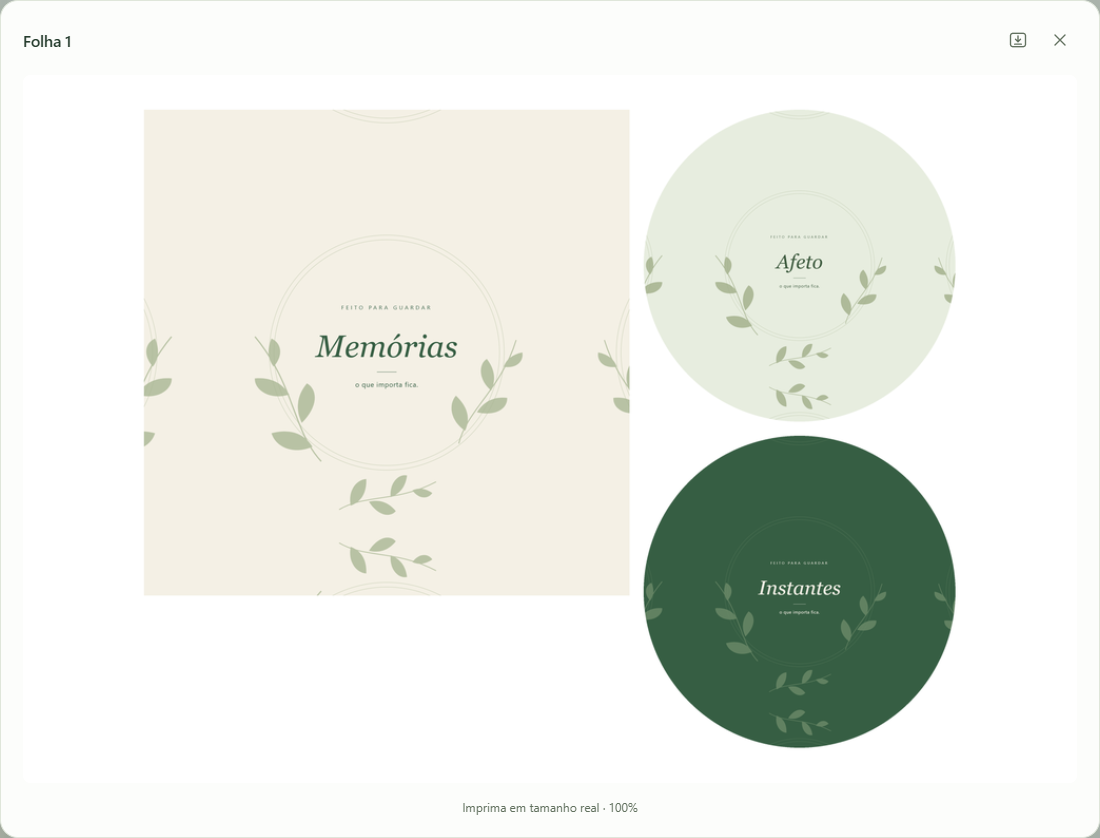
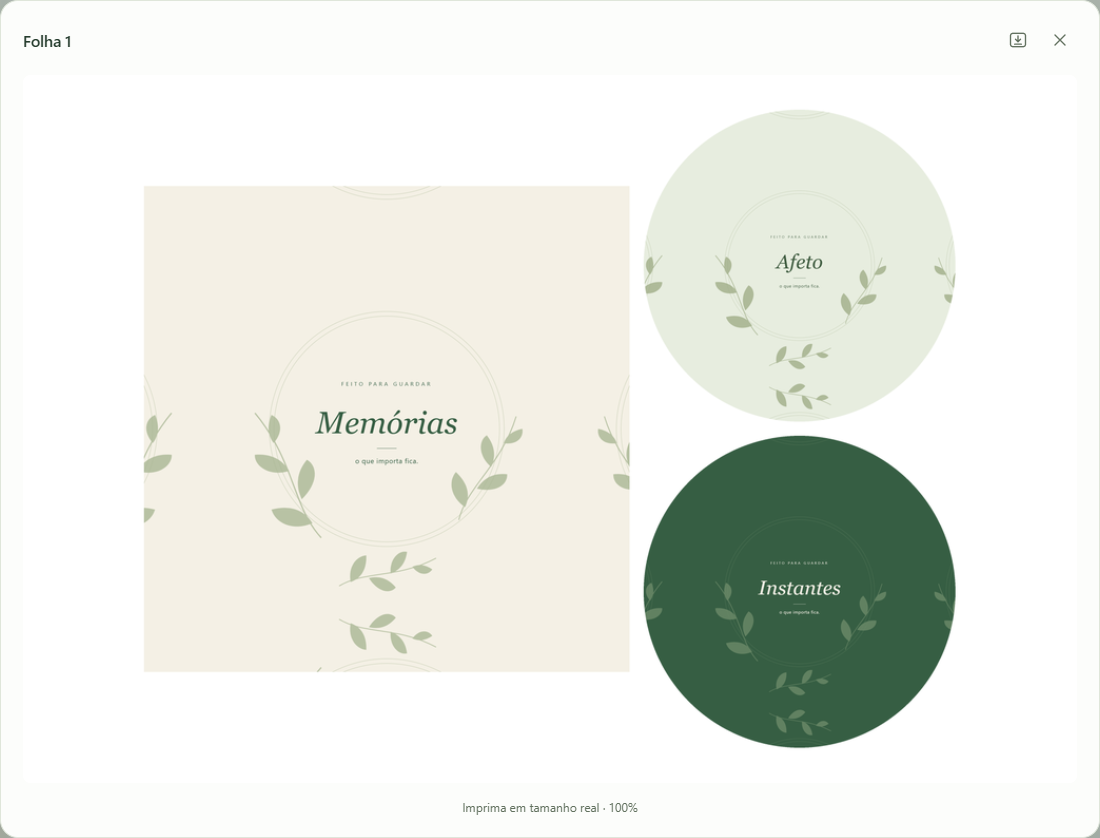
fix: centralizar verticalmente as colunas de bottons (#11)

diff --git a/apps/bottons-editor/layout.py b/apps/bottons-editor/layout.py
@@ -1,8 +1,8 @@
 """Deterministic sheet planning; all bounds include the complete cut/bleed.
 
 Homogeneous batches retain the approved legacy layout. Mixed batches use
-conservative square bounds for circles and a 2 mm gap, then center the complete
-group on each sheet while keeping at least 2 mm outer clearance.
+conservative square bounds for circles and a 2 mm gap. Independent columns
+are centered vertically, and the full group is centered horizontally.
 """
 from engine import DPI, PAGE, page_positions, template_info
 
@@ -57,16 +57,28 @@ def plan_pages(items, default='square'):
         if len({keys[i] for i in indices})==1:
             points=page_positions(len(indices),keys[indices[0]])
         else:
-            # Translate the complete packed group; never resize tiles or change
-            # their relative spacing. Exclude the packer's trailing gap from
-            # the bounds so the actual cut areas have balanced outer margins.
+            # Columns separated horizontally by the full safety gap can move
+            # vertically without introducing collisions. Keep stacked pieces
+            # together; center a square next to the complete circular stack.
+            columns=[]
+            for i in sorted(indices,key=lambda i:(positions[i][0],i)):
+                x=positions[i][0];right=x+specs[i]['cut_px']
+                if not columns or x>=columns[-1]['right']+GAP:
+                    columns.append(dict(indices=[i],right=right))
+                else:
+                    columns[-1]['indices'].append(i)
+                    columns[-1]['right']=max(columns[-1]['right'],right)
+            centered={}
+            for column in columns:
+                top=min(positions[i][1] for i in column['indices'])
+                bottom=max(positions[i][1]+specs[i]['cut_px'] for i in column['indices'])
+                dy=(PAGE[1]-(bottom-top))//2-top
+                for i in column['indices']:
+                    centered[i]=(positions[i][0],positions[i][1]+dy)
             left=min(positions[i][0] for i in indices)
-            top=min(positions[i][1] for i in indices)
             right=max(positions[i][0]+specs[i]['cut_px'] for i in indices)
-            bottom=max(positions[i][1]+specs[i]['cut_px'] for i in indices)
             dx=(PAGE[0]-(right-left))//2-left
-            dy=(PAGE[1]-(bottom-top))//2-top
-            points=[(positions[i][0]+dx,positions[i][1]+dy) for i in indices]
+            points=[(centered[i][0]+dx,centered[i][1]) for i in indices]
         result.append(dict(indices=indices,positions=points))
     return result
 

diff --git a/apps/bottons-editor/tests/test_layout.py b/apps/bottons-editor/tests/test_layout.py
@@ -22,6 +22,9 @@ class LayoutTests(unittest.TestCase):
             self.assertLessEqual(abs(top-bottom),1)
             if len({keys[index] for index in page['indices']})>1:
                 self.assertGreaterEqual(min(left,right,top,bottom),MARGIN)
+                for i,(x,y,size) in enumerate(boxes):
+                    for xx,yy,ss in boxes[i+1:]:
+                        self.assertTrue(x+size+GAP<=xx or xx+ss+GAP<=x or y+size+GAP<=yy or yy+ss+GAP<=y)
             # A page preview/download, planned from its own items, has identical geometry.
             subset=plan_pages([items[i] for i in page['indices']])
             self.assertEqual(len(subset),1);self.assertEqual(subset[0]['positions'],page['positions'])
@@ -39,6 +42,11 @@ class LayoutTests(unittest.TestCase):
         self.assertEqual([template_info(k)['cut_px'] for k in keys],[827,531,531])
         x,y=pages[0]['positions'][0]
         for xx,yy in pages[0]['positions'][1:]:self.assertGreaterEqual(xx-(x+827),GAP)
+        self.assertLessEqual(abs(2*y+827-PAGE[1]),1)
+        (_,upper),(_,lower)=pages[0]['positions'][1:]
+        self.assertEqual(lower-upper-531,GAP)
+        self.assertLessEqual(abs(upper+lower+531-PAGE[1]),1)
+        self.assertGreater(y,upper)
 
     def test_exhaustive_small_mixes_random_batches_and_determinism(self):
         for count in range(1,6):
@@ -54,7 +62,8 @@ class LayoutTests(unittest.TestCase):
         for page in pages:
             first,second=page['indices'];(x,y),(xx,yy)=page['positions']
             self.assertEqual(xx-x-template_info(keys[first])['cut_px'],GAP)
-            self.assertEqual(y,yy)
+            self.assertLessEqual(abs(2*y+template_info(keys[first])['cut_px']-PAGE[1]),1)
+            self.assertLessEqual(abs(2*yy+template_info(keys[second])['cut_px']-PAGE[1]),1)
 
     def test_rendered_mixed_sheet_has_symmetric_margins_and_original_tile_sizes(self):
         from PIL import Image,ImageChops

diff --git a/apps/bottons-editor/version.py b/apps/bottons-editor/version.py
@@ -1,5 +1,5 @@
 """Single version source for the application, installer and releases."""
-VERSION = "1.2.2"
+VERSION = "1.2.3"
 REPOSITORY = "redlab-coder/redlab-editor"
 PORTABLE_NAMESPACE = 'BottonsEditor-Portable'
 INSTALLED_MUTEX = 'Local\\BottonsEditor.Installed.Running'

diff --git a/README.md b/README.md
@@ -2,15 +2,15 @@
 
 Três ferramentas para preparar imagens para impressão. Instale a família completa em um único download ou escolha seu editor.
 
-<p align="center"><a href="https://github.com/redlab-coder/redlab-editor/releases/download/redlab-v1.0.1/RedlabEditor-Setup-1.0.1.exe"><img src="docs/images/download-complete.svg" alt="Baixar pacote completo RedLab Editor para Windows" width="292" height="56"></a><br><sub>Windows 10 e 11 · 64 bits · Sem administrador · Instalação offline</sub></p>
+<p align="center"><a href="https://github.com/redlab-coder/redlab-editor/releases/download/redlab-v1.0.2/RedlabEditor-Setup-1.0.2.exe"><img src="docs/images/download-complete.svg" alt="Baixar pacote completo RedLab Editor para Windows" width="292" height="56"></a><br><sub>Windows 10 e 11 · 64 bits · Sem administrador · Instalação offline</sub></p>
 
-O pacote inclui **Bottons 1.2.2**, **Polaroid 1.2.1** e **Medidas 1.1.1**. Os três vêm selecionados; você pode escolher apenas os que precisa. As ferramentas ficam na pasta RedLab Editor do menu Iniciar e continuam recebendo atualizações individuais. [Instalação do pacote](docs/package.md).
+O pacote inclui **Bottons 1.2.3**, **Polaroid 1.2.1** e **Medidas 1.1.1**. Os três vêm selecionados; você pode escolher apenas os que precisa. As ferramentas ficam na pasta RedLab Editor do menu Iniciar e continuam recebendo atualizações individuais. [Instalação do pacote](docs/package.md).
 
 ### Downloads individuais
 
 | Ferramenta | Para que serve | Windows 10 e 11 · 64 bits |
 | --- | --- | --- |
-| **Bottons Editor** | Modelos por imagem e montagem de folhas com bottons. | [Instalador](https://github.com/redlab-coder/redlab-editor/releases/download/bottons-v1.2.2/BottonsEditor-Setup-1.2.2.exe) · [Portátil](https://github.com/redlab-coder/redlab-editor/releases/download/bottons-v1.2.2/BottonsEditor-Portable.exe) |
+| **Bottons Editor** | Modelos por imagem e montagem de folhas com bottons. | [Instalador](https://github.com/redlab-coder/redlab-editor/releases/download/bottons-v1.2.3/BottonsEditor-Setup-1.2.3.exe) · [Portátil](https://github.com/redlab-coder/redlab-editor/releases/download/bottons-v1.2.3/BottonsEditor-Portable.exe) |
 | **Polaroid Editor** | Enquadramento, conferência e montagem de polaroids. | [Instalador](https://github.com/redlab-coder/redlab-editor/releases/download/polaroid-v1.2.1/PolaroidEditor-Setup-1.2.1.exe) · [Portátil](https://github.com/redlab-coder/redlab-editor/releases/download/polaroid-v1.2.1/PolaroidEditor-Portable.exe) |
 | **Medidas Editor** | Fotos em medidas personalizadas na folha comercial compatível. | [Instalador](https://github.com/redlab-coder/redlab-editor/releases/download/medidas-v1.1.1/MedidasEditor-Setup-1.1.1.exe) · [Portátil](https://github.com/redlab-coder/redlab-editor/releases/download/medidas-v1.1.1/MedidasEditor-Portable.exe) |
 

diff --git a/docs/maintenance.md b/docs/maintenance.md
@@ -2,7 +2,7 @@
 
 | Aplicativo | Pasta | Tag | Canal |
 | --- | --- | --- | --- |
-| Bottons Editor | `apps/bottons-editor` | `bottons-v1.2.2` | `updates/bottons-editor.json` |
+| Bottons Editor | `apps/bottons-editor` | `bottons-v1.2.3` | `updates/bottons-editor.json` |
 | Polaroid Editor | `apps/polaroid-editor` | `polaroid-v1.2.1` | `updates/polaroid-editor.json` |
 | Medidas Editor | `apps/medidas-editor` | `medidas-v1.1.1` | `updates/medidas-editor.json` |
 
@@ -14,7 +14,7 @@ Se uma publicação falhar, examine o workflow e a release antes de retomar. Uma
 
 ## Pacote completo
 
-`bundle/package.json` fixa a versão do conjunto e a versão de cada editor incluído. O pacote 1.0.1 usa a tag `redlab-v1.0.1`. Ele não tem `update.json`, canal próprio, aplicativo residente ou desinstalador coletivo: distribui os três instaladores independentes. O Latest global passa a destacar o pacote, enquanto cada editor continua consultando seu canal explícito.
+`bundle/package.json` fixa a versão do conjunto e a versão de cada editor incluído. O pacote 1.0.2 usa a tag `redlab-v1.0.2`. Ele não tem `update.json`, canal próprio, aplicativo residente ou desinstalador coletivo: distribui os três instaladores independentes. O Latest global passa a destacar o pacote, enquanto cada editor continua consultando seu canal explícito.
 
 1. Para uma nova composição, atualize a versão do pacote, seus produtos, notas e links. As versões fixadas podem ser diferentes das versões atuais do código; não é preciso republicar o pacote a cada atualização individual.
 2. O PR do pacote compila os editores do mesmo código e exercita o conjunto em Windows descartável. Para esse caminho, o código de cada produto deve corresponder à versão fixada.

diff --git a/apps/bottons-editor/docs/templates.md b/apps/bottons-editor/docs/templates.md
@@ -19,7 +19,7 @@ As folhas têm 15,2 × 10,2 cm, na horizontal. Em lotes com um único modelo, a 
 
 Em lotes mistos, o planejador distribui primeiro os cortes maiores, com desempate pela ordem da lista. O corte completo (com sangria) é considerado; círculos usam seus quadrados delimitadores para uma separação conservadora. Folhas mistas mantêm pelo menos 2 mm entre esses limites e na borda externa. Nenhum gabarito é reduzido ou deformado; os itens restantes seguem para outras folhas. A ordem na lista é preservada no lote, mas a posição na folha pode mudar para aproveitar espaço. O algoritmo é determinístico e não promete o menor número matematicamente possível de folhas.
 
-Nas folhas mistas, o conjunto completo fica centralizado na horizontal e na vertical, considerando os limites de corte e sangria. A centralização apenas desloca o conjunto: os tamanhos e as distâncias entre as peças não mudam. As margens opostas podem diferir em no máximo 1 pixel por arredondamento.
+Nas folhas mistas, o conjunto completo fica centralizado na horizontal e na vertical, considerando os limites de corte e sangria. Cada coluna independente também é centralizada verticalmente: um quadrado fica alinhado ao centro da coluna de dois redondos, e modelos diferentes lado a lado compartilham o centro vertical da folha. Peças empilhadas permanecem juntas. Os tamanhos e os espaçamentos de segurança não mudam. As margens opostas podem diferir em no máximo 1 pixel por arredondamento.
 
 Um quadrado (7 × 7 cm de corte) e dois P (Ø 4,5 cm de corte) cabem juntos em uma folha. Prévia, exportação completa e download de uma folha usam a mesma lógica de posicionamento.
 

diff --git a/apps/bottons-editor/docs/usage.md b/apps/bottons-editor/docs/usage.md
@@ -1,6 +1,6 @@
 # Usar o Bottons Editor
 
-Baixe o `BottonsEditor-Setup-<versão>.exe` na página de [versões oficiais](https://github.com/redlab-coder/redlab-editor/releases/tag/bottons-v1.2.2) e execute o instalador. A instalação é por usuário, com atalho no menu Iniciar e desinstalação pelas configurações do Windows. A interface abre no navegador padrão e o ícone fica na bandeja, ao lado do relógio. Não precisa instalar Python ou conectar uma conta. A edição e a exportação funcionam offline. Windows 10/11 de 64 bits.
+Baixe o `BottonsEditor-Setup-<versão>.exe` na página de [versões oficiais](https://github.com/redlab-coder/redlab-editor/releases/tag/bottons-v1.2.3) e execute o instalador. A instalação é por usuário, com atalho no menu Iniciar e desinstalação pelas configurações do Windows. A interface abre no navegador padrão e o ícone fica na bandeja, ao lado do relógio. Não precisa instalar Python ou conectar uma conta. A edição e a exportação funcionam offline. Windows 10/11 de 64 bits.
 
 A versão instalada consulta atualizações ao iniciar e a cada 30 minutos, baixa e verifica o instalador. Quando estiver pronto, o cabeçalho oferece **Atualizar e reiniciar**, que guarda uma cópia local do lote e reabre o programa com o trabalho recuperado. Sem conexão, a edição continua disponível. [Funcionamento das atualizações](../../../docs/updates.md).
 

diff --git a/apps/bottons-editor/RELEASE_NOTES.md b/apps/bottons-editor/RELEASE_NOTES.md
@@ -1,11 +1,11 @@
-# Bottons Editor 1.2.2
+# Bottons Editor 1.2.3
 
-As folhas que combinam modelos diferentes agora centralizam o conjunto de bottons na horizontal e na vertical, em vez de posicioná-lo no canto superior esquerdo.
+Corrige o alinhamento individual das peças nas folhas mistas. Na composição de um quadrado com dois redondos, o quadrado agora fica centralizado verticalmente ao lado da coluna de círculos.
 
-- Prévia, folha ampliada e exportação usam o mesmo posicionamento.
-- O encaixe entre as peças, as medidas físicas, as sangrias e o espaçamento de segurança são preservados.
-- Folhas de um único modelo mantêm a disposição aprovada.
-- Lotes salvos passam a usar a composição centralizada ao serem abertos, sem alterar fotos ou enquadramentos.
-- Capturas da ferramenta atualizadas no repositório.
+- Modelos diferentes lado a lado compartilham o centro vertical da folha.
+- Colunas independentes são centralizadas sem alterar tamanhos ou o espaçamento de segurança.
+- Peças empilhadas continuam juntas, mantendo sua separação.
+- Prévia, exportação e lotes reabertos usam o mesmo alinhamento.
+- Folhas uniformes preservam sua disposição aprovada.
 
-Instale pelo canal próprio do Bottons Editor ou pelo pacote completo RedLab Editor 1.0.1.
+Também incluído no pacote completo RedLab Editor 1.0.2.

diff --git a/apps/bottons-editor/README.md b/apps/bottons-editor/README.md
@@ -1,8 +1,8 @@
 <p align="center"><img src="docs/images/banner.svg" alt="Bottons Editor — RedLab Editor" width="100%"></p>
 
-<p align="center"><a href="https://github.com/redlab-coder/redlab-editor/releases/download/bottons-v1.2.2/BottonsEditor-Setup-1.2.2.exe"><img src="docs/images/download.svg" alt="Baixar Bottons Editor para Windows" width="252" height="54"></a><br><sub>Windows 10 e 11 · 64 bits · Instalação sem administrador</sub></p>
+<p align="center"><a href="https://github.com/redlab-coder/redlab-editor/releases/download/bottons-v1.2.3/BottonsEditor-Setup-1.2.3.exe"><img src="docs/images/download.svg" alt="Baixar Bottons Editor para Windows" width="252" height="54"></a><br><sub>Windows 10 e 11 · 64 bits · Instalação sem administrador</sub></p>
 
-<p align="center"><a href="https://github.com/redlab-coder/redlab-editor/releases/tag/bottons-v1.2.2">Versão 1.2.2 e edição portátil</a> · <a href="docs/usage.md">Guia de uso</a> · <a href="../../docs/updates.md">Atualizações</a></p>
+<p align="center"><a href="https://github.com/redlab-coder/redlab-editor/releases/tag/bottons-v1.2.3">Versão 1.2.3 e edição portátil</a> · <a href="docs/usage.md">Guia de uso</a> · <a href="../../docs/updates.md">Atualizações</a></p>
 
 ![Interface atual do Bottons Editor com artes de demonstração](docs/images/workspace.png)
 

diff --git a/docs/package.md b/docs/package.md
@@ -1,16 +1,16 @@
 # Pacote completo RedLab Editor
 
-[Baixar para Windows](https://github.com/redlab-coder/redlab-editor/releases/download/redlab-v1.0.1/RedlabEditor-Setup-1.0.1.exe)
+[Baixar para Windows](https://github.com/redlab-coder/redlab-editor/releases/download/redlab-v1.0.2/RedlabEditor-Setup-1.0.2.exe)
 
 Um único instalador reúne Bottons Editor, Polaroid Editor e Medidas Editor. Depois do download, a instalação funciona sem internet. Requer Windows 10 ou 11 de 64 bits e não exige administrador.
 
 1. Salve seu trabalho e encerre os editores que serão instalados.
-2. Abra `RedlabEditor-Setup-1.0.1.exe`.
+2. Abra `RedlabEditor-Setup-1.0.2.exe`.
 3. Mantenha **Pacote completo** ou escolha as ferramentas desejadas.
 4. Escolha se deseja atalhos na área de trabalho e instale.
 5. Abra a ferramenta pela pasta **RedLab Editor** do menu Iniciar.
 
-O pacote 1.0.1 inclui Bottons 1.2.2, Polaroid 1.2.1 e Medidas 1.1.1. Também é possível baixar [cada editor separadamente](../README.md#downloads-individuais).
+O pacote 1.0.2 inclui Bottons 1.2.3, Polaroid 1.2.1 e Medidas 1.1.1. Também é possível baixar [cada editor separadamente](../README.md#downloads-individuais).
 
 ## Instalações existentes
 

diff --git a/docs/validation.md b/docs/validation.md
@@ -1,5 +1,10 @@
 # Validação da integração
 
+## Alinhamento individual do Bottons Editor 1.2.3
+
+A validação exige o centro vertical do quadrado no centro da folha e da coluna de dois P. Modelos G, M, P e quadrado lado a lado também devem compartilhar esse eixo, com tolerância de 1 pixel. Colunas só se movem independentemente quando seus limites de corte já estão separados pelo espaçamento completo de segurança; peças de uma mesma coluna movem-se juntas. Os testes exaustivos e aleatórios conferem ausência de sobreposição, margens, renderização e consistência entre lote completo e folha individual.
+
+
 ## Centralização do Bottons Editor 1.2.2
 
 Os testes conferem margens opostas com diferença máxima de 1 pixel, tamanhos de corte, segurança das bordas e ausência de sobreposição. Incluem o exemplo com G e quadrado numa folha e M e P na seguinte, além do quadrado com dois P, combinações exaustivas e lotes aleatórios. A renderização é validada antes da codificação e a prévia pela API, junto à exportação e à reabertura de projetos.

diff --git a/bundle/RELEASE_NOTES.md b/bundle/RELEASE_NOTES.md
@@ -1,12 +1,12 @@
-# RedLab Editor · Pacote completo 1.0.1
+# RedLab Editor · Pacote completo 1.0.2
 
-Esta versão inclui o Bottons Editor 1.2.2, com os conjuntos centralizados nas folhas mistas. Polaroid e Medidas mantêm as mesmas versões.
+Esta versão inclui o Bottons Editor 1.2.3, com o quadrado centralizado ao lado dos redondos e alinhamento vertical das colunas nas folhas mistas. Polaroid e Medidas mantêm as mesmas versões.
 
 Um único download para instalar suas ferramentas de impressão. Os três editores vêm selecionados; você pode escolher apenas os que precisa.
 
 | Ferramenta incluída | Para que serve |
 | --- | --- |
-| Bottons Editor 1.2.2 | Modelos individuais e montagem de folhas |
+| Bottons Editor 1.2.3 | Modelos individuais e montagem de folhas |
 | Polaroid Editor 1.2.1 | Enquadramento e conferência de polaroids |
 | Medidas Editor 1.1.1 | Fotos em medidas personalizadas |
 
